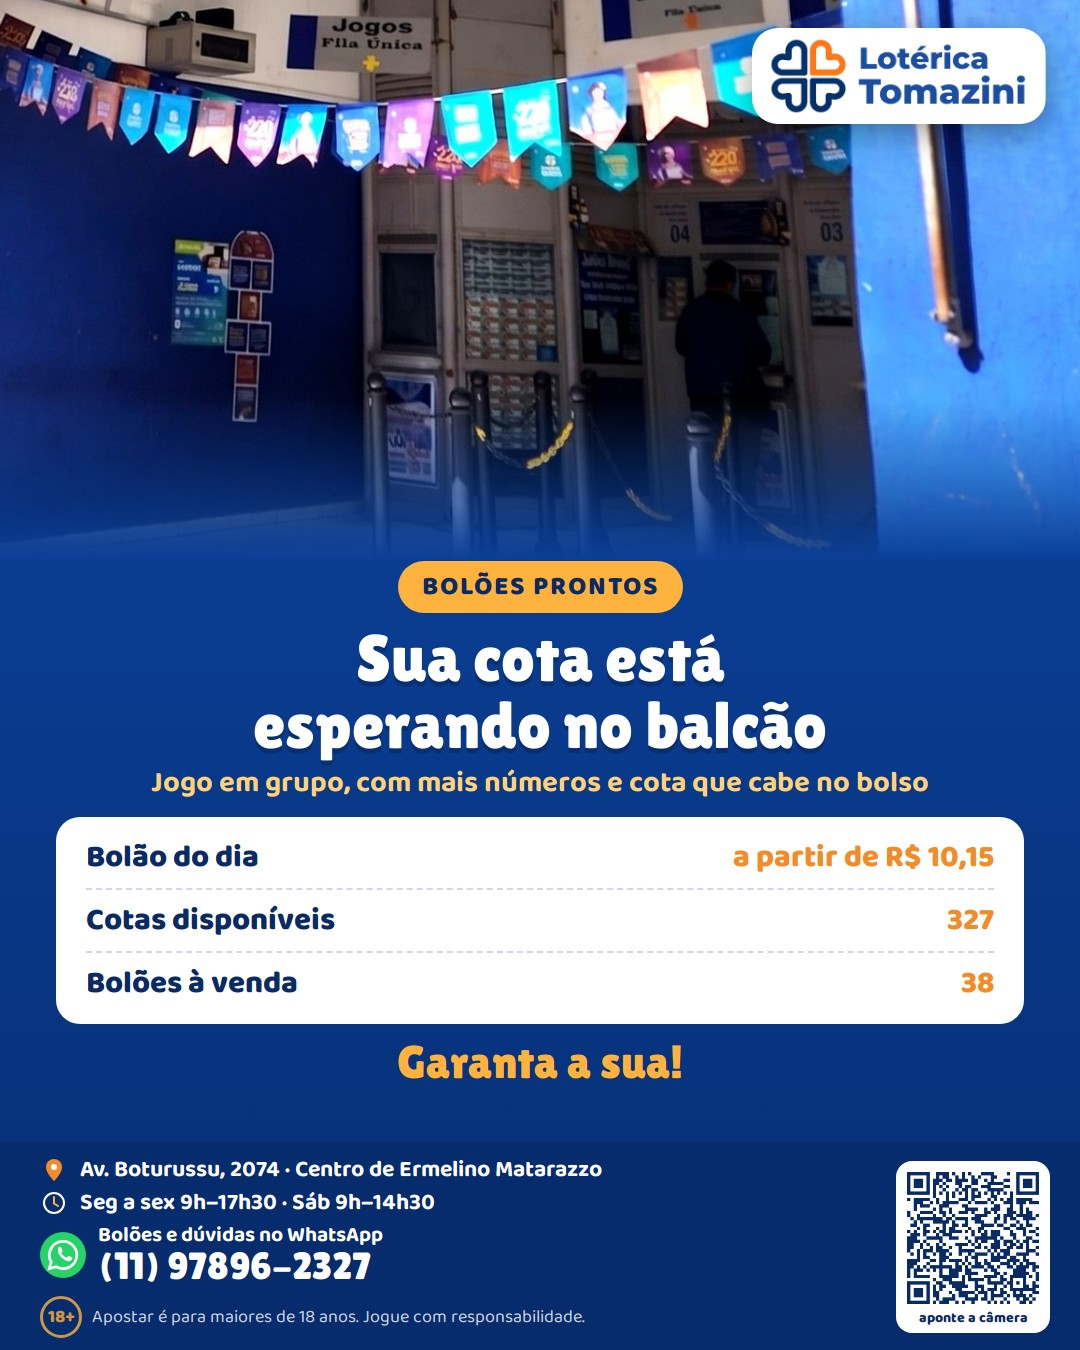
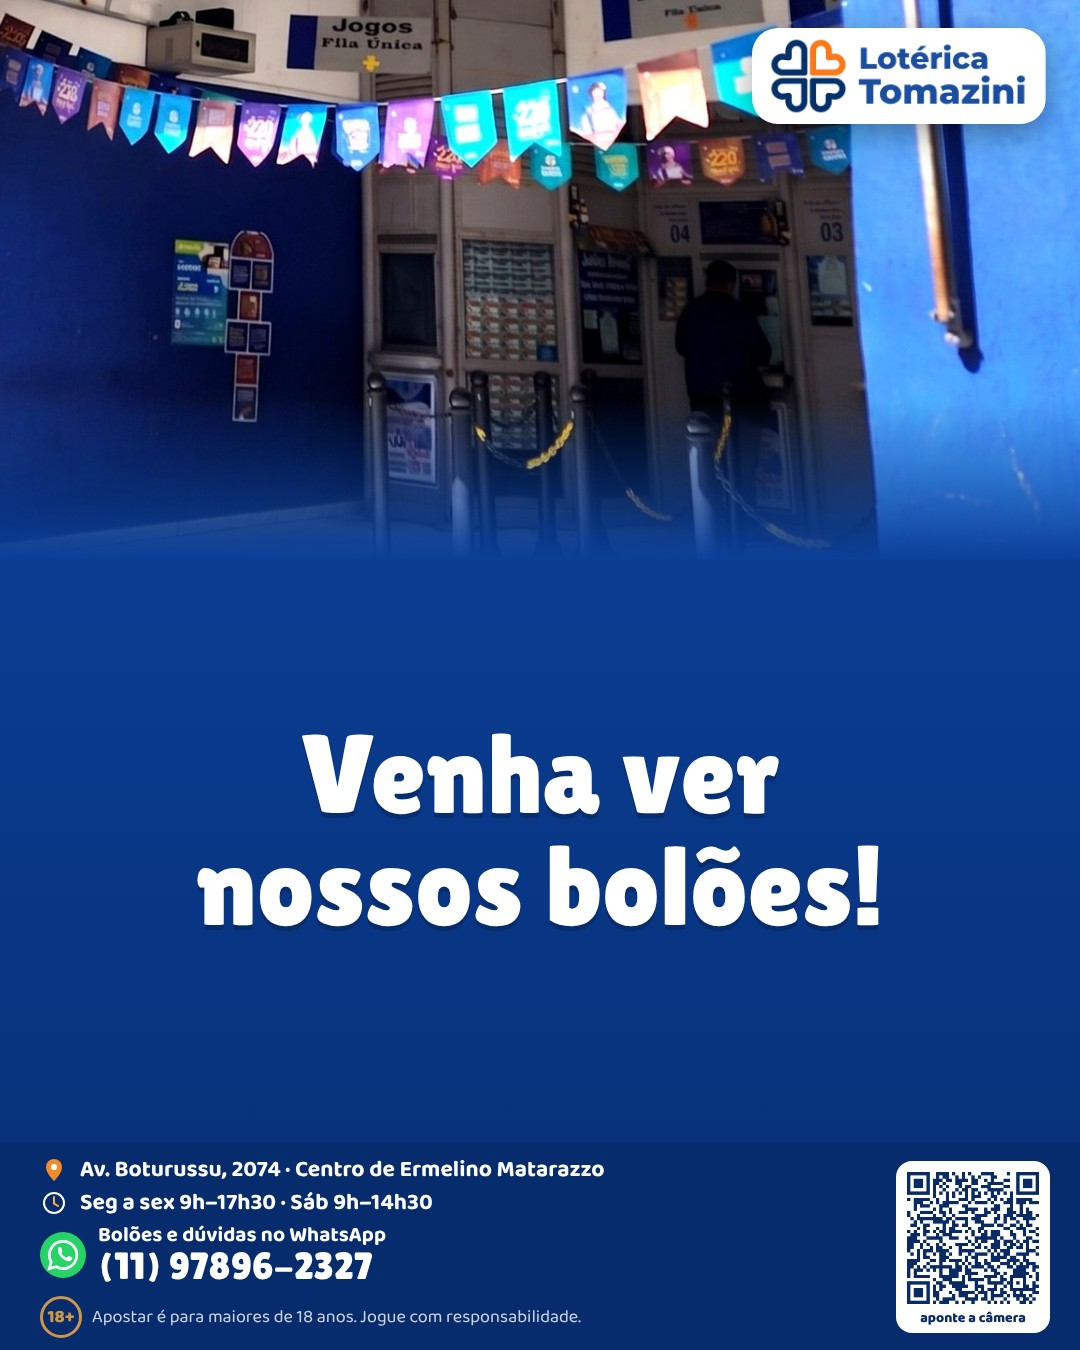
Peça de bolões: só a frase "Venha ver nossos bolões!" (pedido do Fonseca)
Claude-Session: https://claude.ai/code/session_01Bxe7GpT3JXbyMSz1b7a84R

diff --git a/pecas-card/bolao_praca-xi.html b/pecas-card/bolao_praca-xi.html
@@ -34,8 +34,7 @@ body{padding:0;align-items:stretch;width:1080px;height:1350px}
 .cta{font-family:L;color:#FFB23E;font-size:46px;margin-top:12px}
 </style></head><body>
 <div class="ph" style="--ph:560px;background-image:url(__A__/foto_praca-xi.jpg);background-position:70% 52%;background-size:118%"><img class="lj" style="left:34px" src="__A__/logoloja_praca-xi.png"></div>
-<div class="mid"><div class="kick">BOLÕES PRONTOS</div><div class="h">Sua cota está<br>esperando no balcão</div><div class="s">Jogo em grupo, com mais números e cota que cabe no bolso</div>
-<div class="box"><div class="r">Bolão do dia<span>a partir de R$ {{PRECO}}</span></div><div class="r">Cotas disponíveis<span>{{COTAS}}</span></div><div class="r">Bolões à venda<span>{{QTD}}</span></div></div><div class="cta">Garanta a sua!</div></div>
+<div class="mid"><div class="h" style="font-size:112px;line-height:1.0">Venha ver<br>nossos bolões!</div></div>
 <div class="bot"><div class="bl2"><div class="l"><svg viewBox="0 0 56 56" width="28" height="28"><path d="M28 50s16-15 16-28a16 16 0 10-32 0c0 13 16 28 16 28z" fill="#F28C28"/><circle cx="28" cy="22" r="6" fill="#fff"/></svg>Praça Rev. Mattathias Gomes dos Santos, 8 · Praça 11</div><div class="l"><svg viewBox="0 0 56 56" width="28" height="28"><circle cx="28" cy="28" r="20" fill="none" stroke="#fff" stroke-width="4"/><path d="M28 16v13l8 5" fill="none" stroke="#FFB23E" stroke-width="4" stroke-linecap="round"/></svg>Seg a sex 9h–17h45 · Sáb 8h30–14h</div>
 <div class="wa"><svg viewBox="0 0 32 32" width="46" height="46"><circle cx="16" cy="16" r="16" fill="#25D366"/><path d="M16 6.5a9.5 9.5 0 00-8.2 14.3L6.5 25.5l4.8-1.3A9.5 9.5 0 1016 6.5z" fill="none" stroke="#fff" stroke-width="1.9"/><path d="M12.6 11.2c.3-.7.7-.7 1-.7h.6c.2 0 .5.1.6.5l.8 2c.1.2 0 .5-.1.7l-.5.7c-.1.2-.1.4 0 .6.4.7 1 1.4 1.8 1.9.6.4 1.1.7 1.5.8.2.1.4 0 .6-.1l.7-.8c.2-.2.4-.2.6-.1l1.9.9c.3.1.4.3.4.5 0 .7-.4 1.5-1.2 1.9-.8.4-1.9.4-3.8-.4-2.2-1-3.8-3.2-4.3-4.1-.5-.9-.9-2.2-.4-3.4z" fill="#fff"/></svg><span>Bolões e dúvidas no WhatsApp<b>(11) 96048-0263</b></span></div>
 <div class="f"><span class="b18">18+</span>Apostar é para maiores de 18 anos. Jogue com responsabilidade.</div></div><div class="qr"><img src="__A__/qr_praca-xi.png"><small>aponte a câmera</small></div></div></body></html>

diff --git a/pecas-card/bolao_tomazini.html b/pecas-card/bolao_tomazini.html
@@ -34,8 +34,7 @@ body{padding:0;align-items:stretch;width:1080px;height:1350px}
 .cta{font-family:L;color:#FFB23E;font-size:46px;margin-top:12px}
 </style></head><body>
 <div class="ph" style="--ph:560px;background-image:url(__A__/foto_tomazini.jpg);background-position:60% 76%;background-size:112%"><img class="lj" style="right:34px" src="__A__/logoloja_tomazini.png"></div>
-<div class="mid"><div class="kick">BOLÕES PRONTOS</div><div class="h">Sua cota está<br>esperando no balcão</div><div class="s">Jogo em grupo, com mais números e cota que cabe no bolso</div>
-<div class="box"><div class="r">Bolão do dia<span>a partir de R$ {{PRECO}}</span></div><div class="r">Cotas disponíveis<span>{{COTAS}}</span></div><div class="r">Bolões à venda<span>{{QTD}}</span></div></div><div class="cta">Garanta a sua!</div></div>
+<div class="mid"><div class="h" style="font-size:112px;line-height:1.0">Venha ver<br>nossos bolões!</div></div>
 <div class="bot"><div class="bl2"><div class="l"><svg viewBox="0 0 56 56" width="28" height="28"><path d="M28 50s16-15 16-28a16 16 0 10-32 0c0 13 16 28 16 28z" fill="#F28C28"/><circle cx="28" cy="22" r="6" fill="#fff"/></svg>Av. Boturussu, 2074 · Centro de Ermelino Matarazzo</div><div class="l"><svg viewBox="0 0 56 56" width="28" height="28"><circle cx="28" cy="28" r="20" fill="none" stroke="#fff" stroke-width="4"/><path d="M28 16v13l8 5" fill="none" stroke="#FFB23E" stroke-width="4" stroke-linecap="round"/></svg>Seg a sex 9h–17h30 · Sáb 9h–14h30</div>
 <div class="wa"><svg viewBox="0 0 32 32" width="46" height="46"><circle cx="16" cy="16" r="16" fill="#25D366"/><path d="M16 6.5a9.5 9.5 0 00-8.2 14.3L6.5 25.5l4.8-1.3A9.5 9.5 0 1016 6.5z" fill="none" stroke="#fff" stroke-width="1.9"/><path d="M12.6 11.2c.3-.7.7-.7 1-.7h.6c.2 0 .5.1.6.5l.8 2c.1.2 0 .5-.1.7l-.5.7c-.1.2-.1.4 0 .6.4.7 1 1.4 1.8 1.9.6.4 1.1.7 1.5.8.2.1.4 0 .6-.1l.7-.8c.2-.2.4-.2.6-.1l1.9.9c.3.1.4.3.4.5 0 .7-.4 1.5-1.2 1.9-.8.4-1.9.4-3.8-.4-2.2-1-3.8-3.2-4.3-4.1-.5-.9-.9-2.2-.4-3.4z" fill="#fff"/></svg><span>Bolões e dúvidas no WhatsApp<b>(11) 97896-2327</b></span></div>
 <div class="f"><span class="b18">18+</span>Apostar é para maiores de 18 anos. Jogue com responsabilidade.</div></div><div class="qr"><img src="__A__/qr_tomazini.png"><small>aponte a câmera</small></div></div></body></html>

diff --git a/pecas-card/bolao_we.html b/pecas-card/bolao_we.html
@@ -34,8 +34,7 @@ body{padding:0;align-items:stretch;width:1080px;height:1350px}
 .cta{font-family:L;color:#FFB23E;font-size:46px;margin-top:12px}
 </style></head><body>
 <div class="ph" style="--ph:560px;background-image:url(__A__/foto_we.jpg);background-position:35% 45%;background-size:cover"><img class="lj" style="right:34px" src="__A__/logoloja_we.png"></div>
-<div class="mid"><div class="kick">BOLÕES PRONTOS</div><div class="h">Sua cota está<br>esperando no balcão</div><div class="s">Jogo em grupo, com mais números e cota que cabe no bolso</div>
-<div class="box"><div class="r">Bolão do dia<span>a partir de R$ {{PRECO}}</span></div><div class="r">Cotas disponíveis<span>{{COTAS}}</span></div><div class="r">Bolões à venda<span>{{QTD}}</span></div></div><div class="cta">Garanta a sua!</div></div>
+<div class="mid"><div class="h" style="font-size:112px;line-height:1.0">Venha ver<br>nossos bolões!</div></div>
 <div class="bot"><div class="bl2"><div class="l"><svg viewBox="0 0 56 56" width="28" height="28"><path d="M28 50s16-15 16-28a16 16 0 10-32 0c0 13 16 28 16 28z" fill="#F28C28"/><circle cx="28" cy="22" r="6" fill="#fff"/></svg>Estrada do Lageado Velho, 1013 · Guaianazes</div><div class="l"><svg viewBox="0 0 56 56" width="28" height="28"><circle cx="28" cy="28" r="20" fill="none" stroke="#fff" stroke-width="4"/><path d="M28 16v13l8 5" fill="none" stroke="#FFB23E" stroke-width="4" stroke-linecap="round"/></svg>Seg a sex 9h–19h30 · Sáb 9h–14h30</div>
 <div class="wa"><svg viewBox="0 0 32 32" width="46" height="46"><circle cx="16" cy="16" r="16" fill="#25D366"/><path d="M16 6.5a9.5 9.5 0 00-8.2 14.3L6.5 25.5l4.8-1.3A9.5 9.5 0 1016 6.5z" fill="none" stroke="#fff" stroke-width="1.9"/><path d="M12.6 11.2c.3-.7.7-.7 1-.7h.6c.2 0 .5.1.6.5l.8 2c.1.2 0 .5-.1.7l-.5.7c-.1.2-.1.4 0 .6.4.7 1 1.4 1.8 1.9.6.4 1.1.7 1.5.8.2.1.4 0 .6-.1l.7-.8c.2-.2.4-.2.6-.1l1.9.9c.3.1.4.3.4.5 0 .7-.4 1.5-1.2 1.9-.8.4-1.9.4-3.8-.4-2.2-1-3.8-3.2-4.3-4.1-.5-.9-.9-2.2-.4-3.4z" fill="#fff"/></svg><span>Bolões e dúvidas no WhatsApp<b>(11) 97658-9981</b></span></div>
 <div class="f"><span class="b18">18+</span>Apostar é para maiores de 18 anos. Jogue com responsabilidade.</div></div><div class="qr"><img src="__A__/qr_we.png"><small>aponte a câmera</small></div></div></body></html>
